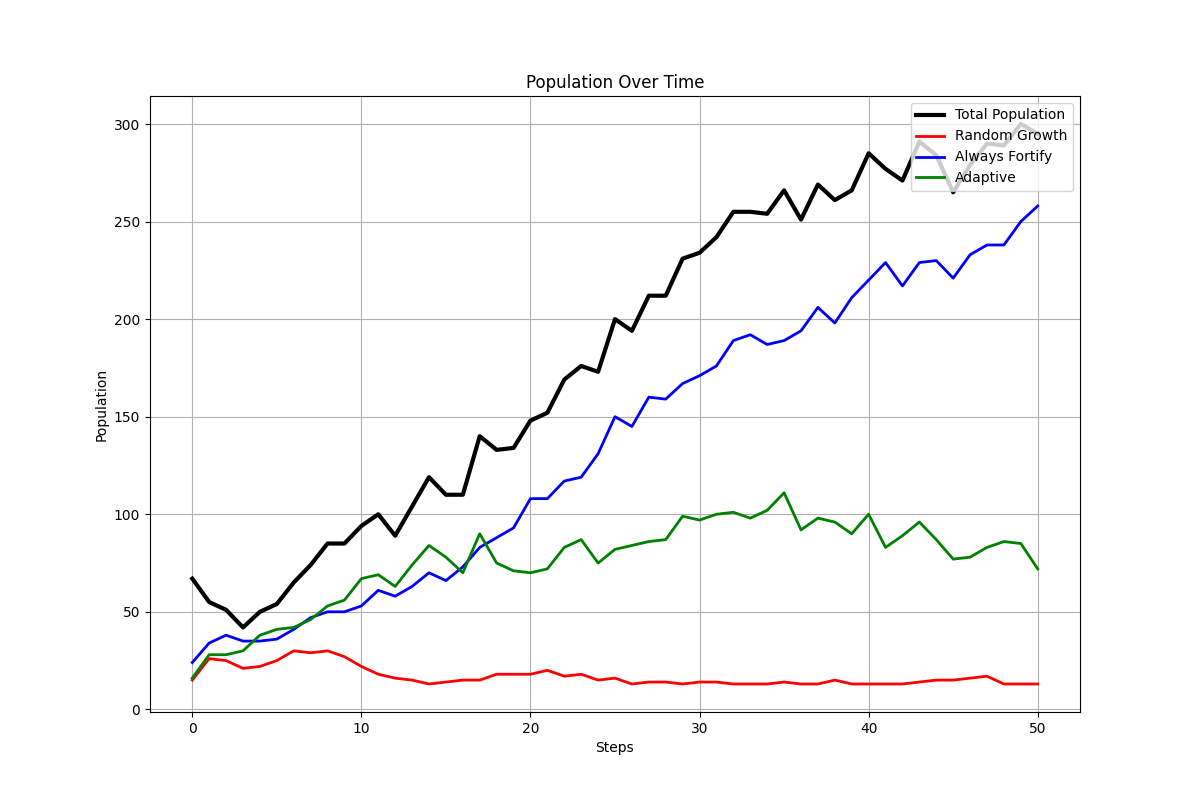
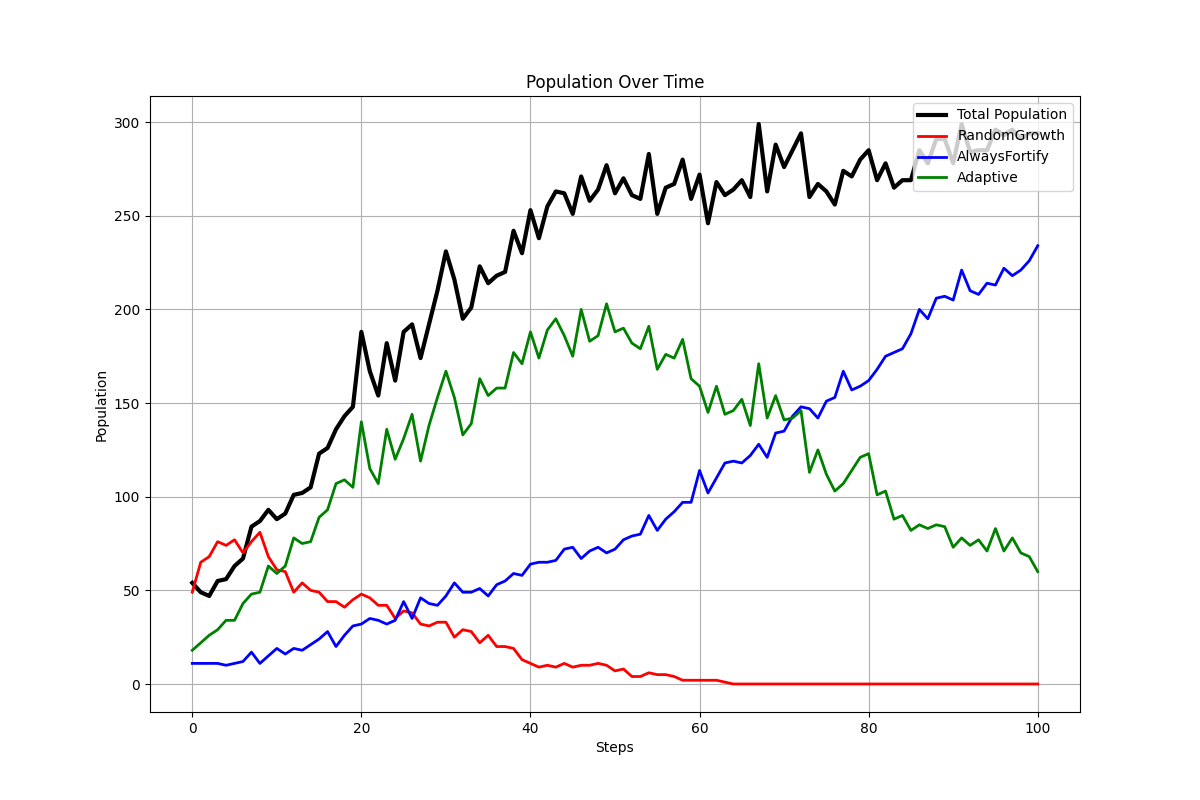
Other small changes

diff --git a/game_of_life/game_logic.py b/game_of_life/game_logic.py
@@ -56,7 +56,6 @@ class GameOfLife:
         if random_init:
             self._random_init(random_fill_ratio)
 
-        # For population tracking
         self.track_population = False
         self.population_history = []
         self.step_count = 0
@@ -81,7 +80,6 @@ class GameOfLife:
         self.population_history = []
         self.step_count = 0
         
-        # Record initial population
         self._record_population()
 
     def _record_population(self) -> None:
@@ -91,16 +89,14 @@ class GameOfLife:
         if not self.track_population:
             return
             
-        # Total population
         total_population = np.sum(self.grid > 0)
         
-        # Create population record
         population_data = {
             'step': self.step_count,
             'total': total_population
         }
         
-        # Add policy-specific data if using policies
+
         if self.use_policies:
             # Verify counts match actual grid
             # if self.step_count % 10 == 0:  # Check every 10 steps to save performance
@@ -269,7 +265,7 @@ class AgentBasedGameOfLife(GameOfLife):
         random_init: bool = True,
         random_fill_ratio: float = 0.2,
         use_policies: bool = True,
-        policy_counts: Optional[Dict[int, int]] = None,
+        policy_weights: Optional[Dict[int, float]] = None,
         max_steps: Optional[int] = None,
         which_policies: List[str] = None,
     ):
@@ -308,11 +304,11 @@ class AgentBasedGameOfLife(GameOfLife):
         print(f"Active policies: {[POLICIES[pid].name for pid in valid_policy_ids]}")
         
         # Track stats about policies - initialize with zeros
-        self.policy_counts = {policy_id: 0 for policy_id in valid_policy_ids}
+        self.policy_weights = policy_weights
         
         # If we're using random initialization, assign policies
         if random_init and use_policies:
-            self._init_policies(policy_counts)
+            self._init_policies(policy_weights)
             self._record_population()
     
     def _get_policy_weights(self, policy_counts: Optional[Dict[int, int]] = None) -> Dict[int, float]:
@@ -353,7 +349,7 @@ class AgentBasedGameOfLife(GameOfLife):
         
         return weights
 
-    def _init_policies(self, policy_counts: Optional[Dict[int, int]] = None) -> None:
+    def _init_policies(self, policy_weights: Optional[Dict[int, int]] = None) -> None:
         """
         Initialize policy-related data structures.
         
@@ -377,7 +373,7 @@ class AgentBasedGameOfLife(GameOfLife):
         # Assign policies randomly to all live cells
         for row, col in live_cells:
             # Choose a random policy (equal chance for each)
-            policy_id = np.random.choice(policy_ids)
+            policy_id = np.random.choice(policy_ids, p=[self.policy_weights[pid] for pid in policy_ids])
             
             # Assign the policy
             self.policy_grid[row, col] = policy_id
@@ -658,11 +654,12 @@ class AgentBasedGameOfLife(GameOfLife):
                 # If using policies, decrement the count for this policy
                 if self.use_policies:
                     policy_id = self.policy_grid[row, col]
-                    if policy_id in self.policy_counts and self.policy_counts[policy_id] > 0:
-                        self.policy_counts[policy_id] -= 1
-                        new_policy_grid[row, col] = 0
-                    else:
-                        pass
+                    #if policy_id in self.policy_counts and self.policy_counts[policy_id] > 0:
+                    # if policy_id in self.policy_counts:
+                    #     self.policy_counts[policy_id] -= 1
+                    new_policy_grid[row, col] = 0
+                    #else:
+                        # pass
         
         # Apply rules for dead cells
         for row, col in np.argwhere(self.grid == OFF):
@@ -686,15 +683,16 @@ class AgentBasedGameOfLife(GameOfLife):
                 
                 # Inherit policy from neighbors
                 policy_id = inherit_policy_from_neighbors(
-                    1, 1, neighbors, neighbors_policy, 3
+                    1, 1, neighbors, neighbors_policy, 3, self.policy_counts
                 )
                 
                 # Assign the policy and update counts
                 # self.policy_grid[row, col] = policy_id
                 new_policy_grid[row, col] = policy_id
-                self.policy_counts[policy_id] += 1
+                # self.policy_counts[policy_id] += 1
         
         self.policy_grid = new_policy_grid
+        self.policy_counts = {pid: np.ones_like(self.policy_grid)[self.policy_grid == pid].sum() for pid in self.active_policies.keys()}
         # Increment step counter and record population if tracking is enabled
         if self.track_population:
             self.step_count += 1

diff --git a/game_of_life/main.py b/game_of_life/main.py
@@ -160,9 +160,9 @@ def parse_arguments() -> Dict[str, Any]:
     return vars(args)
 
 
-def get_policy_counts(args: Dict[str, Any]) -> Dict[int, int]:
+def get_policy_weights(args: Dict[str, Any]) -> Dict[int, float]:
     """
-    Get policy counts from command-line arguments.
+    Get policy weights from command-line arguments.
     
     Args:
         args: Command-line arguments
@@ -170,7 +170,7 @@ def get_policy_counts(args: Dict[str, Any]) -> Dict[int, int]:
     Returns:
         Dictionary with policy IDs as keys and counts as values
     """
-    policy_counts = {}
+    policy_weights = {}
     
     # Check if any policy weights were explicitly provided
     any_weights_provided = False
@@ -179,16 +179,22 @@ def get_policy_counts(args: Dict[str, Any]) -> Dict[int, int]:
         if policy_id != 0:
             arg_name = f"{policy.name.lower().replace(' ', '-')}_ratio"
             if arg_name in args and args[arg_name] is not None:
-                policy_counts[policy_id] = args[arg_name]
+                policy_weights[policy_id] = args[arg_name]
                 any_weights_provided = True
+            else:
+                policy_weights[policy_id] = 0
     
     # If no weights were provided, create equal counts
     if not any_weights_provided:
-        for policy_id in POLICIES:
-            policy_counts[policy_id] = 1.0  # Equal weight
-    
-    print(f"Policy counts from arguments: {policy_counts}")
-    return policy_counts
+        for policy_id in [1, 2, 3]:
+            policy_weights[policy_id] = 1 / 3 # Equal weight
+    else:
+        total_weight = sum(policy_weights.values())
+        for policy_id in [1, 2, 3]:
+            policy_weights[policy_id] /= total_weight
+    print(policy_weights)
+    print(f"Policy weights from arguments: {policy_weights}")
+    return policy_weights
 
 
 def setup_game(args: Dict[str, Any]) -> GameOfLife:
@@ -205,7 +211,7 @@ def setup_game(args: Dict[str, Any]) -> GameOfLife:
     max_steps = args["max_steps"]
     
     # Get policy counts for evolutionary dynamics
-    policy_counts = get_policy_counts(args)
+    policy_weights = get_policy_weights(args)
     
     # Determine which game class to use
     if args["agent_based"]:
@@ -214,7 +220,7 @@ def setup_game(args: Dict[str, Any]) -> GameOfLife:
             grid_size=grid_size,
             random_init=True,
             use_policies=args["use_policies"],
-            # policy_counts=policy_counts,
+            policy_weights=policy_weights,
             random_fill_ratio=args["fill_ratio"],
             max_steps=max_steps,
         )

diff --git a/game_of_life/policies.py b/game_of_life/policies.py
@@ -156,7 +156,7 @@ class RandomGrowPolicy(Policy):
     
     @property
     def name(self) -> str:
-        return "Random Growth"
+        return "RandomGrowth"
     
     @property
     def color(self) -> str:
@@ -180,7 +180,7 @@ class AlwaysFortifyPolicy(Policy):
     
     @property
     def name(self) -> str:
-        return "Always Fortify"
+        return "AlwaysFortify"
     
     @property
     def color(self) -> str:
@@ -270,7 +270,8 @@ def inherit_policy_from_neighbors(
     col: int, 
     grid: np.ndarray, 
     policy_grid: np.ndarray,
-    grid_size: int
+    grid_size: int,
+    policy_counts_total = None
 ) -> int:
     """
     Inherit a policy from neighbors proportional to their representation.
@@ -302,13 +303,14 @@ def inherit_policy_from_neighbors(
                     policy_counts[neighbor_policy] = 0
                 policy_counts[neighbor_policy] += 1
     
-    # If no living neighbors with valid policies, choose random policy from active IDs
-    # We need a default list of valid policy IDs (1, 2, 3)
     valid_policy_ids = [1, 2, 3]  # Assuming these are the valid policy IDs
     
     total_neighbors = sum(policy_counts.values())
     if total_neighbors == 0:
-        return random.choice(valid_policy_ids)
+        pol = [pid for pid in valid_policy_ids]
+        p = np.array([policy_counts_total[pid] for pid in valid_policy_ids]).astype(float)
+        p /= p.sum()
+        return np.random.choice(pol, p=p)
     
     # Choose policy proportional to neighbor policies
     policies = list(policy_counts.keys())

diff --git a/game_of_life/visualization.py b/game_of_life/visualization.py
@@ -290,7 +290,7 @@ class Visualizer:
         if save_path:
             try:
                 # Try to use ffmpeg first with specific extra args
-                writer = animation.FFMpegWriter(fps=30, bitrate=1800)
+                writer = animation.FFMpegWriter(fps=16, bitrate=1800)
                 self.animation.save(save_path, writer=writer)
             except Exception as e:
                 print(f"FFmpeg writer failed: {e}")

diff --git a/README.md b/README.md
@@ -18,9 +18,14 @@ This is a simple extension of Conway's Game of Life to include evolutionary game
 
 ## Usage
 
-Run the simulation with default settings:
+Run the simulation with default settings (Default Conway's Game of Life):
 ```bash
 python -m game_of_life.main
+```
+
+Reccomneded Run Configurations:
+```bash
+python -m game_of_life   --grid-size 25   --agent-based   --use-policies   --random   --fill-ratio 0.2  --max-steps 50   --save "animation.gif"   --track-population   --plot-file "population_plot.png"   --interval 100
 ```
 
 ### Command-line Arguments
